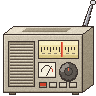
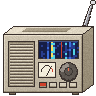
covers: SDR 封面改成刻度窗是色塊瀑布圖
來源 rp2040-retro-sdr 210ec4b。uf2 不受影響。

Changed region(s): [[0.4062, 0.4062, 0.8438, 0.625]]

diff --git a/README.md b/README.md
@@ -153,7 +153,7 @@ SDR 的兩個 uf2 掛在新的 tag `v2026.10.10`(其他七個仍在 `v2026.08.16
 |---|---|---|
 | `RetroSDR.ino.uf2` | 新編 | `build_offset.bat`,佈局檢查通過:image `0x10004000..0x10024200`(131,584 B),SP=`0x20042000` Reset=`0x100040e3` |
 | `RetroSDR_standalone.uf2` | 新編 + merge | 578 blocks。夾的跳板與 `trampoline.uf2`(`19d1e132634b49f8`)逐位元組相同,前 16KB 與 `RetroDict_standalone.uf2` 相同 |
-| `covers/RETROSDR.INO.RAW` | 新增 | 米色短波收音機,RGB565 後 102 色 |
+| `covers/RETROSDR.INO.RAW` | 新增 | 米色短波收音機,刻度窗是色塊瀑布圖,RGB565 後 89 色 |
 
 ✅ **已上機驗證**:用 `v2026.08.16` 的 `loader.uf2`,選單看得到封面、從選單啟動正常。
 (standalone 版本體與選單版相同,USB 直燒的路徑在開發期間一直在用。)
@@ -287,5 +287,5 @@ covers/DOOM.RAW                   c4e8be3cd258d37a
 covers/INFONES_STANDALONE.RAW     9f9d1fc3b15bdd16
 covers/PICOAPPLE2_STANDALONE.RAW  3f6c27d4fe5af0c3
 covers/RETRODICT.INO.RAW          2c1ca71602ced177
-covers/RETROSDR.INO.RAW           e7f9b897a3f175e6
+covers/RETROSDR.INO.RAW           306e0ef7a60938cc
 ```
